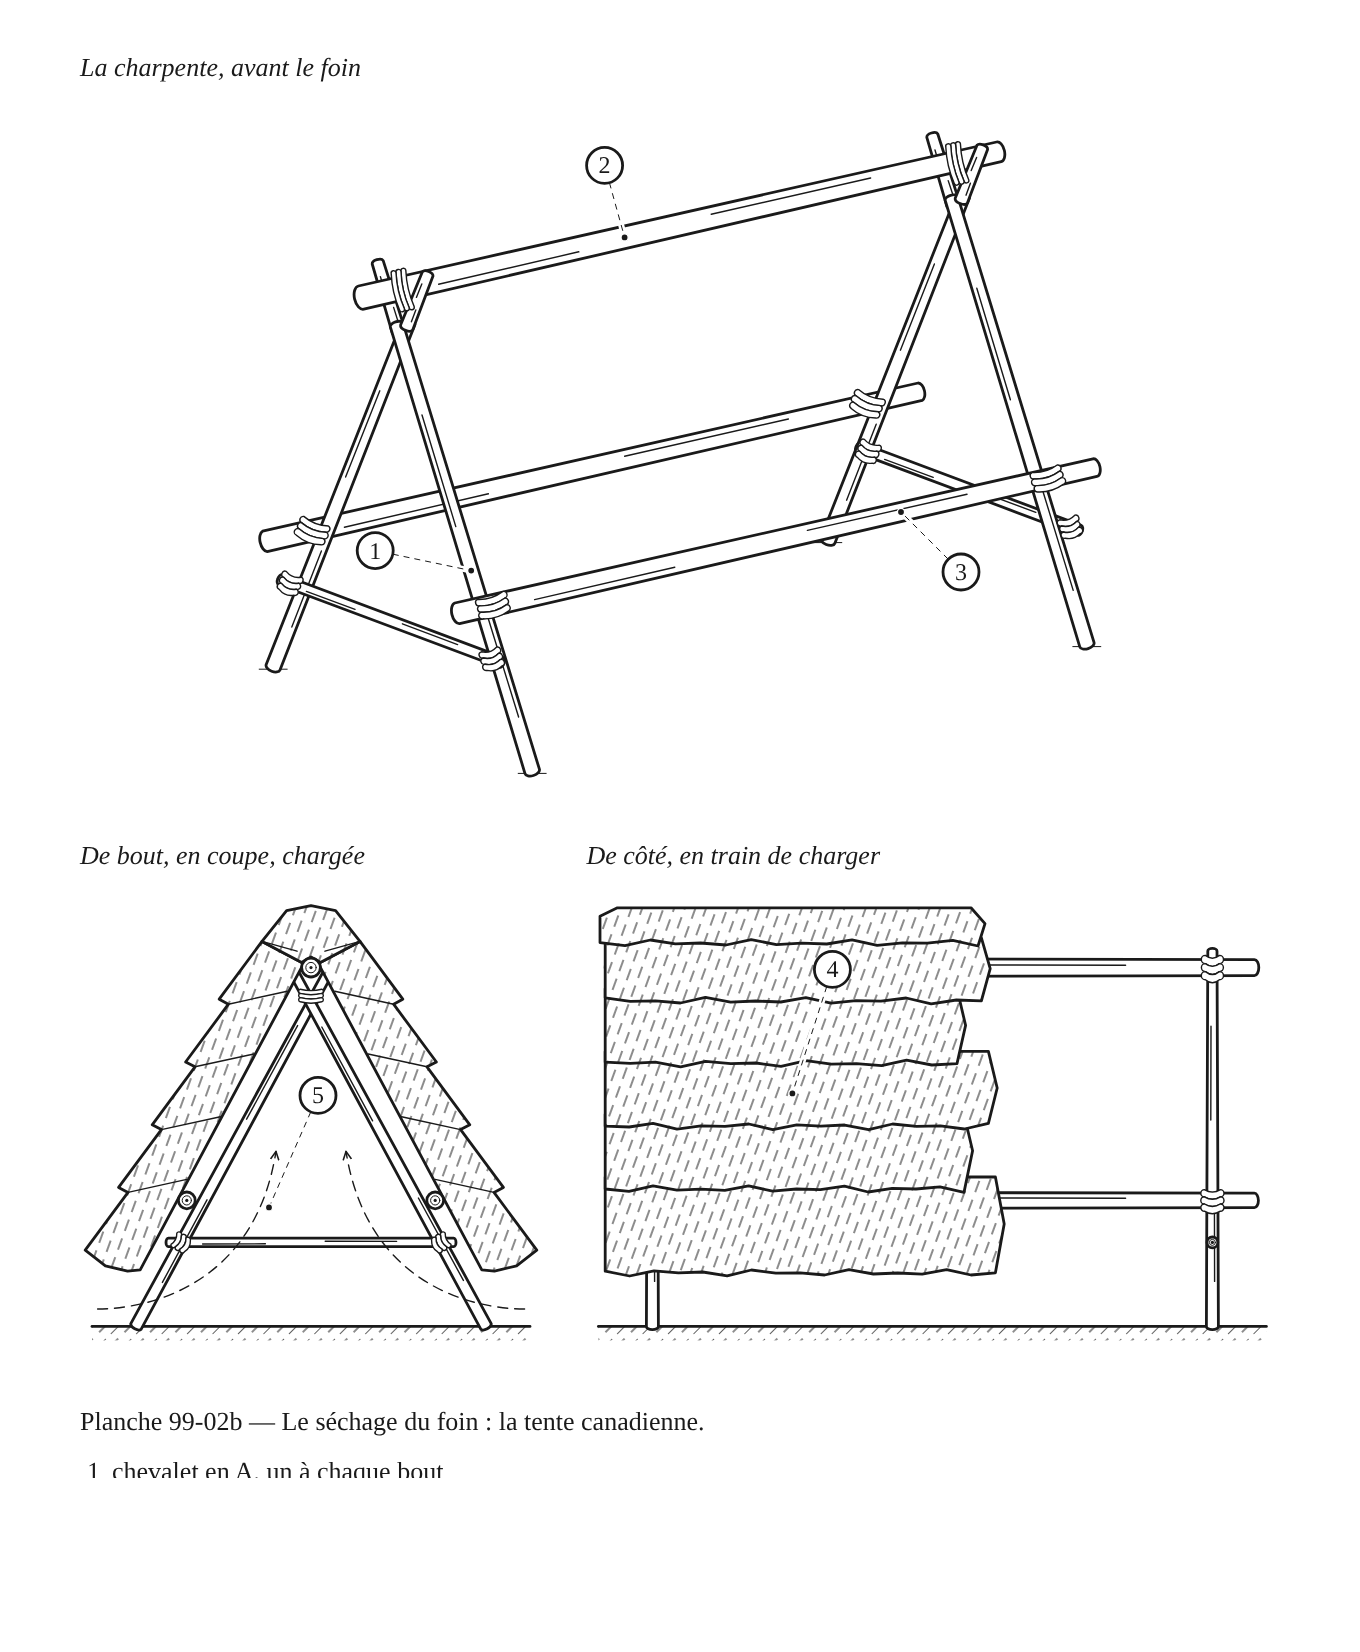
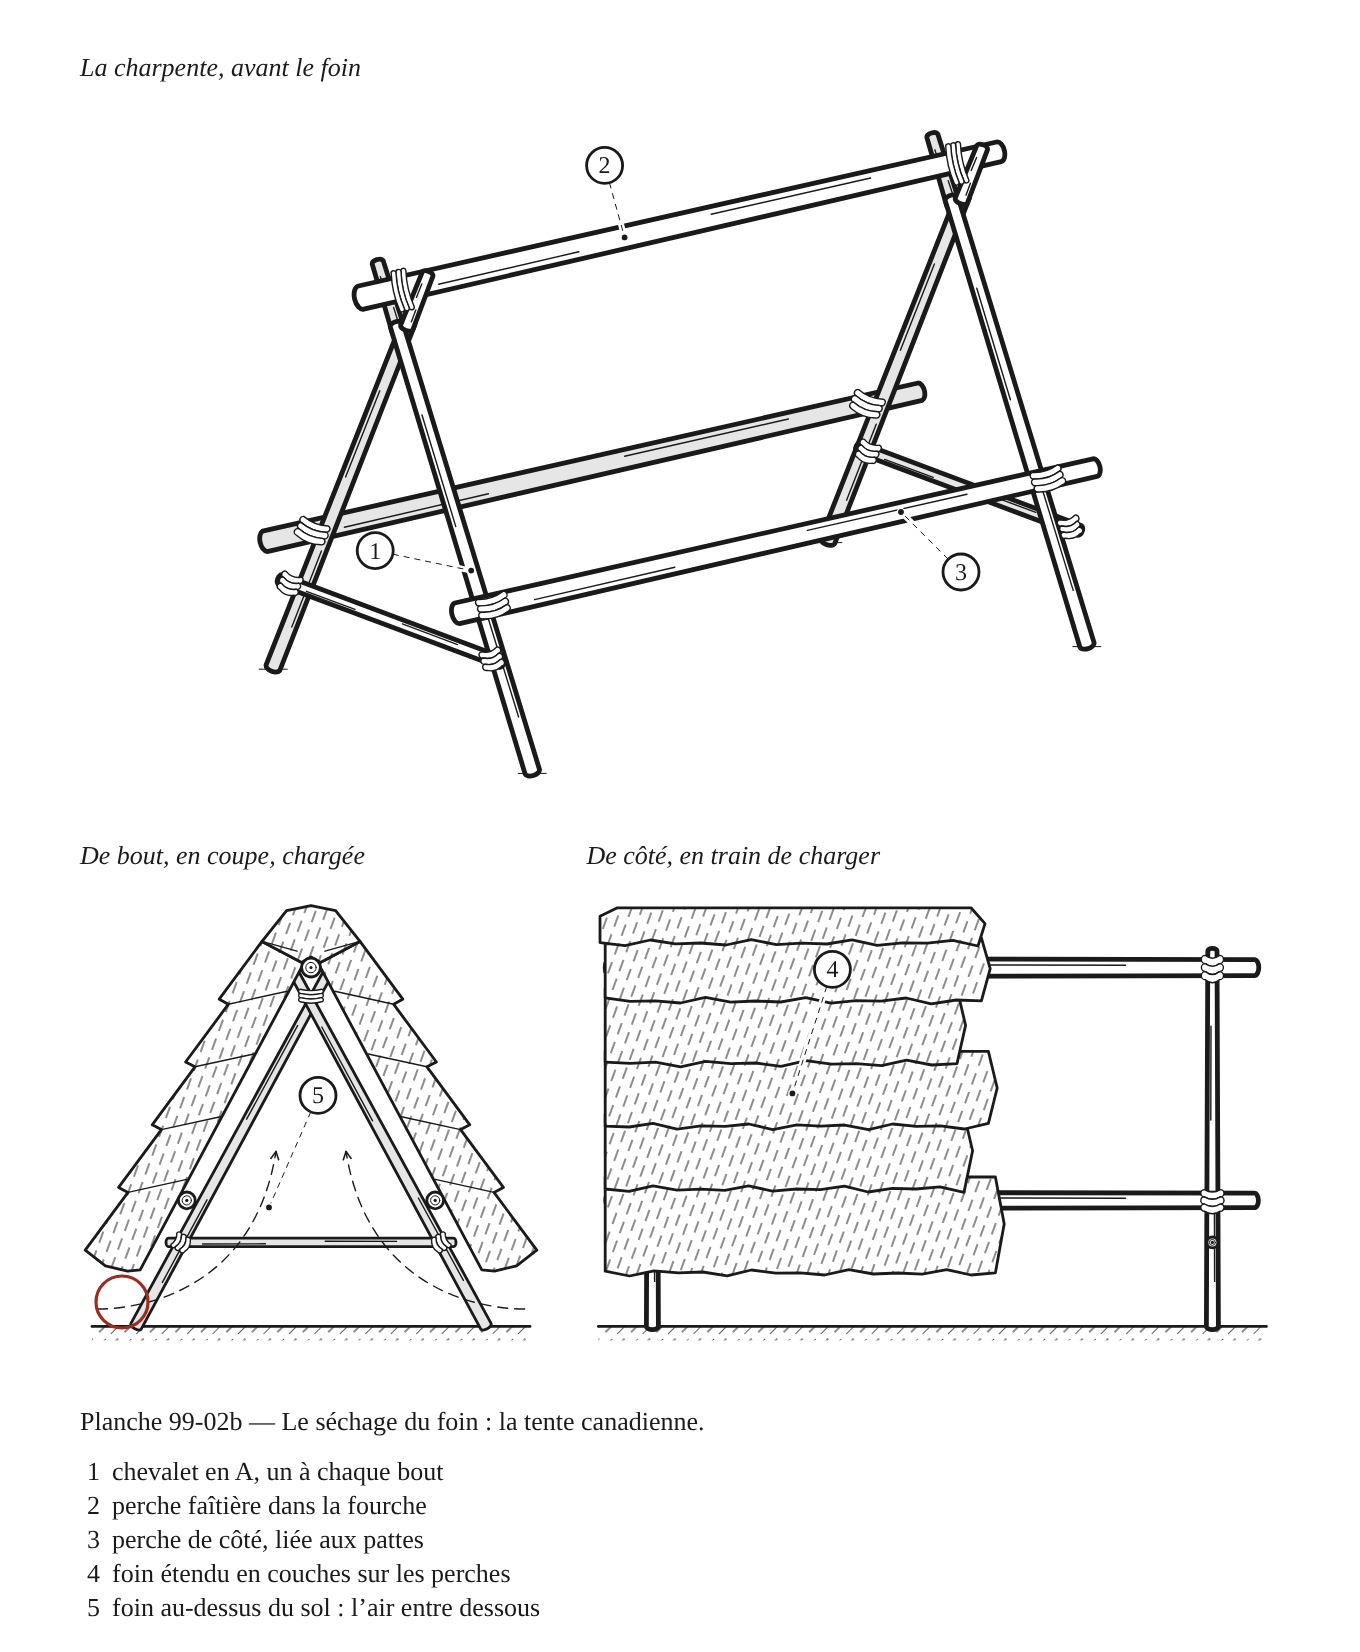
Charte : lot 12 terminé
Claude-Session: https://claude.ai/code/session_014xDY5FLxFXDJt3nYAYznSZ

diff --git a/images/planches-src/99-02b.js b/images/planches-src/99-02b.js
@@ -38,7 +38,9 @@ module.exports = (h) => {
   const K = 1.75;                         // bout et côté
 
   // une perche vue de côté, en coordonnées d'écran
-  const perche = (p0, p1, d0, d1, ep = 1.4) => {
+  // La charte : les perches sont l'objet, leur contour pèse (2,4) ; ce qui est derrière (la pente du
+  // fond, le chevalet derrière le plan de coupe) recule en gris loin (fond = '#E6E6E6').
+  const perche = (p0, p1, d0, d1, ep = 2.4, fond = '#FFFFFF') => {
     const u = uni(sub(p1, p0)), n = [-u[1], u[0]];
     const a = add(p0, mul(n, d0 / 2)), b = add(p1, mul(n, d1 / 2)), c = add(p1, mul(n, -d1 / 2)), d = add(p0, mul(n, -d0 / 2));
     const pt = q => `${f1(q[0])} ${f1(q[1])}`;
@@ -49,7 +51,7 @@ module.exports = (h) => {
     // le rond du bout : on écrase l'arc dans le sens de la perche
     const ax = Math.atan2(n[1], n[0]) * 180 / Math.PI;
     const S2 = S.replace(/A(\S+) (\S+) 0 0 0/g, (m, rx, ry) => `A${rx} ${ry} ${f1(ax)} 0 0`);
-    return [h.path(S2, blanc(ep)), ec(0.12, 0.34, d0 * 0.18), ec(0.55, 0.8, -d0 * 0.14)].join('\n');
+    return [h.path(S2, blanc(ep).replace('fill="#FFFFFF"', `fill="${fond}"`)), ec(0.12, 0.34, d0 * 0.18), ec(0.55, 0.8, -d0 * 0.14)].join('\n');
   };
   // un bout de perche vu en bout (coupé ou scié)
   // (le bout d'une perche : un rond, un cerne, le cœur)
@@ -94,9 +96,9 @@ module.exports = (h) => {
     for (const sgn of [-1, 1]) {
       const pied = [sgn * W, 0], cr = [-sgn * DL1 * 0.4, HC];
       const dir = uni(sub(cr, pied));
-      out.push(perche(P(pied), P(add(cr, mul(dir, EXT))), DL0 * K, DL1 * K));
+      out.push(perche(P(pied), P(add(cr, mul(dir, EXT))), DL0 * K, DL1 * K, 1.4, '#E6E6E6'));
     }
-    out.push(perche(P([-XX, HX]), P([XX, HX]), DX * K, DX * K));
+    out.push(perche(P([-XX, HX]), P([XX, HX]), DX * K, DX * K, 1.4, '#E6E6E6'));
     for (const sgn of [-1, 1]) {
       const [lx, ly] = P([sgn * xPatte(HX), HX]);
       out.push(lien(lx, ly, (DX + 1.2) * K, (DL0 + 1) * K, 3, sgn * (90 - BETA * 180 / Math.PI)));
@@ -128,6 +130,9 @@ module.exports = (h) => {
       const a = P([sgn * (W + 11), 5]), b = P([sgn * (W - 4), 5]), c = P([sgn * 16, 12]), e = P([sgn * 10, 50]);
       out.push(h.fleche(`M${f1(a[0])} ${f1(a[1])} C${f1(b[0])} ${f1(b[1])} ${f1(c[0])} ${f1(c[1])} ${f1(e[0])} ${f1(e[1])}`, A.cache));
     }
+    // La charte : le point à contrôler, le jour entre le bas du foin et le sol, par où l'air entre
+    const jour = P([-54, 7]);
+    out.push(h.controle(jour[0], jour[1], 13));
     return out.join('\n');
   };
 
@@ -201,18 +206,19 @@ module.exports = (h) => {
       const dir = n3(d3(pied, cr));
       return { pied, cr, tip: plus(cr, dir, EXT) };
     };
-    const seg = (a, b, d0, d1) => perche(P(a), P(b), d0 * k, d1 * k);
-    const lowerSeg = p => seg(p.pied, p.cr, DL0, (DL0 + DL1) / 2);
-    const tipSeg = p => seg(plus(p.cr, n3(d3(p.pied, p.cr)), -1.5), p.tip, (DL0 + DL1) / 2, DL1);
+    const LOIN = '#E6E6E6';
+    const seg = (a, b, d0, d1, fond) => perche(P(a), P(b), d0 * k, d1 * k, 2.4, fond);
+    const lowerSeg = (p, fond) => seg(p.pied, p.cr, DL0, (DL0 + DL1) / 2, fond);
+    const tipSeg = (p, fond) => seg(plus(p.cr, n3(d3(p.pied, p.cr)), -1.5), p.tip, (DL0 + DL1) / 2, DL1, fond);
     const angDe = (a, b) => { const [ax, ay] = P(a), [bx, by] = P(b); return Math.atan2(by - ay, bx - ax) * 180 / Math.PI; };
     const fr = { R: { X: LH }, L: { X: -LH } };
     for (const f of Object.values(fr)) { f.near = patte(f.X, 1); f.far = patte(f.X, -1); f.xb = f.X + (f.X > 0 ? DL0 : -DL0); }
     const x0 = -LH - OR, x1 = LH + OR;
     // pieds au sol : un petit trait
     for (const f of Object.values(fr)) for (const p of [f.near, f.far]) { const [px, py] = P(p.pied); out.push(h.ligne(px - 7, py + 1, px + 7, py + 1, A.fin)); }
-    out.push(seg([x0, -XS, HS], [x1 + 5, -XS, HS], 2 * RS, 2 * RS * 0.85));             // perche de côté du fond, qui dépasse la patte arrière de droite
-    out.push(seg([fr.R.xb, -XX, HX], [fr.R.xb, XX, HX], DX, DX));                        // traverse, chevalet du fond
-    out.push(lowerSeg(fr.R.far), tipSeg(fr.R.near), lowerSeg(fr.L.far), tipSeg(fr.L.near));
+    out.push(seg([x0, -XS, HS], [x1 + 5, -XS, HS], 2 * RS, 2 * RS * 0.85, LOIN));       // perche de côté du fond, qui dépasse la patte arrière de droite
+    out.push(seg([fr.R.xb, -XX, HX], [fr.R.xb, XX, HX], DX, DX, LOIN));                  // traverse, chevalet du fond
+    out.push(lowerSeg(fr.R.far, LOIN), tipSeg(fr.R.near, LOIN), lowerSeg(fr.L.far, LOIN), tipSeg(fr.L.near, LOIN));
     // la perche de côté du fond, liée aux deux pattes arrière : trois tours, comme devant
     for (const f of Object.values(fr)) {
       const [sx, sy] = P([f.far.pied[0], -XS, HS]);

diff --git a/images/planches-src/96-03b.js b/images/planches-src/96-03b.js
@@ -11,6 +11,11 @@
 // anneau couché où prend le câble. Le chapitre ne donne aucune mesure : ni hauteur de chicot, ni
 // profondeur d'entaille, ni largeur de fosse. Aucune cote ; les proportions (chicot de 1,55 m, 420 mm
 // de diamètre à la hauteur de l'élingue, entaille de 100 mm, fosse de 1,7 m) ne servent qu'au dessin.
+// La charte : de côté, la face de droite du chicot à l'ombre (lumière en haut à gauche), entaille
+// comprise, et de même quand il bascule. Pas de gris sur le plan de la fosse ni sur la coupe
+// hachurée. Le rouge : l'élingue sous l'épaulement (le point à vérifier) et, sur le raté, l'élingue
+// qui remonte au sommet (là où ça casse). La traction, la bascule et l'élingue qui glisse sont des
+// pièces qui bougent : leurs flèches restent noires.
 module.exports = (h) => {
   const F = h.formes;
   const f = v => Math.round(v * 10) / 10;
@@ -72,6 +77,20 @@ module.exports = (h) => {
     return h.path(d, blanc('arete'));
   };
 
+  // La face de droite du chicot, à l'ombre : une bande découpée par le contour lui-même.
+  // M : du repère du chicot (mm) à l'écran ; id : l'identifiant de la découpe.
+  const ombreDroite = (Y0, entaille, M, id) => {
+    const cont = D(contour(Y0, entaille).map(M));
+    const Ys = [];
+    for (let Y = Y0 - 80; Y <= HC + 60; Y += 30) Ys.push(Y);
+    const band = [...Ys.map(Y => [0.42 * r(Math.min(Y, HC)), Y]), [700, HC + 60], [700, Y0 - 80]].map(M);
+    return `<defs><clipPath id="${id}"><path d="${cont}" fill="#FFFFFF" stroke="none"/></clipPath></defs><g clip-path="url(#${id})">${h.path(D(band), h.a.ombre)}</g>`;
+  };
+  const chicot = (Y0, entaille, M, id) => {
+    const d = D(contour(Y0, entaille).map(M));
+    return [h.path(d, h.a.blanc), ombreDroite(Y0, entaille, M, id), h.path(d, h.a.contour)].join('\n');
+  };
+
   // ─── Vue 1 : le haut du chicot, de côté ─────────────────────────────────────────────
   const Y0 = 820;
   const V1 = z => {
@@ -86,11 +105,13 @@ module.exports = (h) => {
     // l'anneau, couché : vu de côté, il se voit par la tranche
     out.push(h.ellipse(x(XE), y(YS), RA * s, 16 * s, blanc('contour')));
     // le chicot, l'entaille à droite
-    out.push(h.path(D(contour(Y0, true).map(([X, Y]) => [x(X), y(Y)])), blanc('contour')));
+    out.push(chicot(Y0, true, ([X, Y]) => [x(X), y(Y)], 'k9603b-om1'));
     [[-120, 900, 1500], [-10, 1000, 1420], [95, 880, 1300], [150, 950, 1200]].forEach(([X0, Ya, Yb]) =>
       out.push(h.ligne(x(X0), y(Ya), x(X0 * 0.85), y(Yb), h.a.fin)));
     // l'élingue : de l'anneau au fût, en travers de la face, puis au fond de l'entaille où elle passe derrière
     out.push(bande([[x(XE + 30), y(YS)], [x(-r(YS)), y(YS)], [x(XS), y(YS)]], ES * s, true));
+    // le point à vérifier : l'élingue couchée sous l'épaulement, au fond de l'entaille
+    out.push(h.controle(x(XS), y(YS), 14));
     // le sens de la traction et la bascule
     out.push(h.fleche(`M ${f(x(-520))} ${f(y(yc(-520) + 120))} L ${f(x(-680))} ${f(y(yc(-680) + 120))}`));
     const Rb = 1890, a0 = 84, a1 = 97, cx = -330, cy = -150;
@@ -177,12 +198,14 @@ module.exports = (h) => {
     const [Xg, Yg] = rot([-r(Yl), Yl]), XA = Xg - 250;
     out.push(F.corde([[x(XA - RA + 3), y(Yg)], [x(-1120), y(Yg + pente * (XA - -1120))]], { ep: 20 * s + 0.5, torons: true, debut: 'ouvert', fin: 'fixe' }));
     out.push(h.ellipse(x(XA), y(Yg), RA * s, 16 * s + 0.5, blanc('arete')));
-    out.push(h.path(D(contour(850, entaille).map(V)), blanc('contour')));
+    out.push(chicot(850, entaille, V, `k9603b-om${2 + k}`));
     if (!entaille) out.push(bande([V([-r(YS), YS]), V([r(YS), YS])], ES * s, false).replace(h.a.arete.replace('fill="none"', 'fill="#FFFFFF"'), h.a.cache));
     out.push(bande([[x(XA + 30), y(Yg)], V([-r(Yl), Yl]), V([xs, Yl])], ES * s, true));
     if (!entaille) {
       const [a0, a1] = [V([r(1250) + 90, 1250]), V([r(1530) + 90, 1530])];
       out.push(h.fleche(`M ${f(a0[0])} ${f(a0[1])} L ${f(a1[0])} ${f(a1[1])}`));
+      // là où ça casse : l'élingue remontée au sommet, d'où elle saute
+      out.push(h.controle(...V([r(HC - 30), HC - 30]), 12));
     }
     return out.join('\n');
   };

diff --git a/images/planches-src/90-02b.js b/images/planches-src/90-02b.js
@@ -6,6 +6,10 @@
 // cachée ne se lit pas.
 // Le bordé fait les trois quarts de la longueur : il s'arrête à 1,425 m du milieu de chaque
 // côté, le bout sous une membrure.
+//
+// La charte : vu de dessus, l'intérieur de la coque, vu par l'ouverture du plat-bord, en gris
+// loin (le bordé et les membrures s'y détachent en blanc) ; pas de gris sur les coupes. Pas de
+// rouge : aucun geste fléché, et le chapitre ne donne pas ici de point à vérifier.
 
 module.exports = (h) => {
   const f = (v) => Math.round(v * 10) / 10;
@@ -134,11 +138,11 @@ module.exports = (h) => {
     const tour = [];
     for (let x = -DL; x <= DL + 1e-9; x += 0.02) tour.push(P(x, -w(x)));
     for (let x = DL; x >= -DL - 1e-9; x -= 0.02) tour.push(P(x, w(x)));
-    o.push(h.chemin(tour, h.a.blanc, true));
+    o.push(h.chemin(tour, h.a.loin, true));
     // Étraves : du milieu de la pointe vers l'intérieur, dans l'axe.
     [-1, 1].forEach(sx => {
       const [x1, y1] = P(sx > 0 ? 1.21 : -DL, -0.016);
-      o.push(h.rect(x1, y1, 0.69 * s, 0.032 * s, h.a.hachure('bois', 'aucun')), h.rect(x1, y1, 0.69 * s, 0.032 * s, h.a.arete));
+      o.push(h.rect(x1, y1, 0.69 * s, 0.032 * s, h.a.blanc), h.rect(x1, y1, 0.69 * s, 0.032 * s, h.a.hachure('bois', 'aucun')), h.rect(x1, y1, 0.69 * s, 0.032 * s, h.a.arete));
     });
     // Bordé : perches couchées dans la longueur, les trois quarts de la longueur du canot.
     KB.forEach(k => {
@@ -160,11 +164,11 @@ module.exports = (h) => {
         return [x, sy * (w(DL) - ep(DL) / 2) - sy * 0.62 * (Math.abs(x) - DL)];
       });
       const b = bande(pts.map(p => P(...p)), 0.042 * s).map(p => p);
-      o.push(h.chemin(b, h.a.hachure('bois', 'aucun'), true), h.chemin(b, h.a.arete, true));
+      o.push(h.chemin(b, h.a.blanc, true), h.chemin(b, h.a.hachure('bois', 'aucun'), true), h.chemin(b, h.a.arete, true));
     });
     // Traverse du centre, bouts enroulés au plat-bord ; cordes de babiche torse près des bouts.
     const yT = w(0) - ep(0) / 2;
-    o.push(h.rect(...P(-0.03, -yT), 0.06 * s, 2 * yT * s, h.a.hachure('bois', 'aucun')), h.rect(...P(-0.03, -yT), 0.06 * s, 2 * yT * s, h.a.arete));
+    o.push(h.rect(...P(-0.03, -yT), 0.06 * s, 2 * yT * s, h.a.blanc), h.rect(...P(-0.03, -yT), 0.06 * s, 2 * yT * s, h.a.hachure('bois', 'aucun')), h.rect(...P(-0.03, -yT), 0.06 * s, 2 * yT * s, h.a.arete));
     [-1, 1].forEach(sx => {
       const x = sx * 1.16, y0 = -(w(x) - ep(x)), y1 = w(x) - ep(x);
       let dz = '', k = 0;
